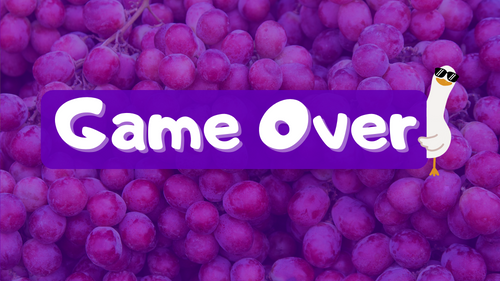
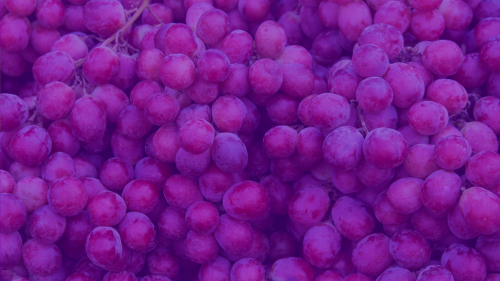
manage css around button and story line placement

Changed region(s): [[0.06, 0.2278, 0.93, 0.6263]]

diff --git a/index.html b/index.html
@@ -45,7 +45,7 @@
     <div class="hidden" id="pg3">
         <section class="top-box" id="text-box-3"></section>
         <section class="bottom-box" id="text-box-3-lower"></section>
-        <section class="text-box" id="text-box-3"></section>
+        <section class="text-box" id="text-box-3-main"></section>
         <img src="assets/Images/lake_background.png" alt="lake" id="pg-3-background">
         <img src="assets/Images/goose_sitting.png" alt="swimming goose" id="pg-3-goose">
         <section class="button-section">
@@ -53,11 +53,12 @@
         </section>
     </div>
     <div class="hidden" id="pg4">
-        <section class="text-box" id="text-box-4"></section>
-        <img src="assets/Images/endscreen.png" alt="game over with grapes background" id="endscreen">
         <section class="button-section">
             <button id="pg-4-opt-1">restart?<span class="arrow">▷</span></button>
         </section>
+        <section class="text-box" id="text-box-4"></section>
+        <img src="assets/Images/game_over_card.png" alt="game over with goose" id="game-over-goose">
+        <img src="assets/Images/endscreen.png" alt="grapes background" id="endscreen">
     </div>
     <div class="hidden" id="pg5">
         <section class="text-box" id="text-box-5"></section>
@@ -68,26 +69,35 @@
         <img src="assets/Images/lemonade_stand_and_hill.png" alt="lemonade stand" id="pg-5-background">
     </div>
     <div class="hidden" id="pg6">
+        <section class="top-box" id="text-box-6-top"></section>
         <section class="text-box" id="text-box-6"></section>
+        <section class="bottom-box" id="text-box-6-lower"></section>
         <section class="button-section">
             <button id="pg-6-opt-1">continue<span class="arrow">▷</span></button>
         </section>
         <img src="assets/Images/goose_face.png" alt="goose face" id="pg-6-goose">
     </div>
     <div class="hidden" id="pg7">
+        <section class="top-box" id="text-box-7-top"></section>
         <section class="text-box" id="text-box-7"></section>
+        <section class="bottom-box" id="text-box-7-lower"></section>
         <section class="button-section">
             <button id="pg-7-opt-1">take lemonade<span class="arrow">▷</span></button>
             <button id="pg-7-opt-2">hmmm... no thanks<span class="arrow">▷</span></button>
         </section>
         <img src="assets/Images/lemonade_stand.png" alt="lemonade stand" id="pg-7-lemonade">
+        <img src="assets/Images/grass_hills.png" alt="grassy hill" id="pg-one-hill">
     </div>
     <div class="hidden" id="pg8">
+        <section class="top-box" id="text-box-8-top"></section>
         <section class="text-box" id="text-box-8"></section>
+        <section class="bottom-box" id="text-box-8-lower"></section>
         <section class="button-section">
             <button id="pg-8-opt-1">continue<span class="arrow">▷</span></button>
         </section>
         <img src="assets/Images/grass_hills.png" alt="grass hill" id="pg-8-hill">
+        <img src="assets/Images/waddle.png" alt="waddle" id="waddle">
+        <img src="assets/Images/goose_butt.png" alt="goose butt" id="goose-butt">
     </div>
 </body>
 </html>

diff --git a/css/style.css b/css/style.css
@@ -40,7 +40,7 @@ button {
 .text-box {
     position: fixed;
     width: 100%;
-    border: 1px solid blue;
+    /* border: 1px solid blue; */
     height: 100px;
     bottom: 100px;
     z-index: 2;
@@ -204,22 +204,14 @@ button {
 }
 
 #pg-three-txt-1 {
-    position: absolute;
-    z-index: 1;
-    background-color: white;
-    padding: 8px 20px;
-    border-radius: 4px;
+    left: 10%;
 }
 
 #pg-three-txt-2 {
-    position: absolute;
-    right: 0;
-    top: 50%;
-    z-index: 2;
+    right: 10%;
     color: white;
     background-color: var(--purple-color);
-    padding: 8px 20px;
-    border-radius: 4px;
+    
 }
 #pg-3-goose {
     width: 30%;
@@ -238,6 +230,14 @@ button {
     position: relative;
     min-width: 100%;
     min-height: 100vh;
+    z-index: 0;
+}
+
+#game-over-goose {
+    left: 50%;
+    transform: translateX(-50%);
+    width: 80%;
+    z-index: 1;
 }
 
 #pg-4-opt-1 {
@@ -274,19 +274,19 @@ button {
 }
 /* pg 6 */
 #pg-6-goose {
-
-}
-#pg-seven-txt-1 {
-    left: 10px;
-}
-
-#pg-seven-txt-2 {
-    left: 50%;
-    transform: translateX(-50%);
+    position: fixed;
+    /* border: 1px solid black; */
+    bottom: 0px;
 }
 
-#pg-seven-txt-3 {
-    right: 10px;
+#pg-six-txt-1 {
+    right: 10%
+}
+
+#pg-six-txt-2 {
+    right: 10%;
+    color: white;
+    background-color: var(--purple-color);
 }
 
 #pg-6-opt-1{
@@ -294,14 +294,26 @@ button {
     transform: translateX(-50%);
 }
 
-#
-
 /* pg 7 */
+#pg-seven-txt-1 {
+    left: 10px;
+}
+
+#pg-seven-txt-2 {
+    left: 60px;
+}
+
+#pg-seven-txt-3 {
+    right: 100px;
+}
+
 #pg-7-lemonade {
+    position: fixed;
     left: 50%;
     transform: translateX(-50%);
-    top: -100px;
-    width: 70%;
+    bottom: 10px;
+    width: 50%;
+    z-index: 1;
 }
 #pg-7-opt-1 {
     left: 20%;
@@ -312,8 +324,29 @@ button {
 }
 /* pg 8 */
 #pg-8-hill{
+    position: fixed;
     width: 100%;
+    bottom: 0;
     z-index: -1;
+}
+
+#goose-butt {
+    position: fixed;
+    height: 100vh;
+    right: 10px;
+    bottom: 10px;
+}
+
+#waddle {
+    width: 40%;
+}
+
+#pg-eight-txt-1 {
+    left: 20px;
+}
+
+#pg-eight-txt-2 {
+    left: 200px;
 }
 
 #pg-8-opt-1 {

diff --git a/js/app.js b/js/app.js
@@ -78,14 +78,14 @@ function addStoryParagraph(storyText, idName, location) {
 addStoryParagraph(story.pageTwo[0], 'pg-two-txt-1', document.getElementById('text-box-2'))
 addStoryParagraph(story.pageTwo[1], 'pg-two-txt-2', document.getElementById('text-box-2-lower'))
 addStoryParagraph(story.pageThree[0], 'pg-three-txt-1', document.getElementById('text-box-3'))
-addStoryParagraph(story.pageThree[1], 'pg-three-txt-2', document.getElementById('text-box-3-lower'))
+addStoryParagraph(story.pageThree[1], 'pg-three-txt-2', document.getElementById('text-box-3-main'))
 addStoryParagraph(story.pageFive[0], 'pg-five-txt-1', document.getElementById('text-box-5'))
-addStoryParagraph(story.pageSix[0], 'pg-six-txt-1', document.getElementById('text-box-6'))
-addStoryParagraph(story.pageSix[1], 'pg-six-txt-2', document.getElementById('text-box-6'))
-addStoryParagraph(story.pageSeven[0], 'pg-seven-txt-1', document.getElementById('text-box-7'))
+addStoryParagraph(story.pageSix[0], 'pg-six-txt-1', document.getElementById('text-box-6-top'))
+addStoryParagraph(story.pageSix[1], 'pg-six-txt-2', document.getElementById('text-box-6-lower'))
+addStoryParagraph(story.pageSeven[0], 'pg-seven-txt-1', document.getElementById('text-box-7-top'))
 addStoryParagraph(story.pageSeven[1], 'pg-seven-txt-2', document.getElementById('text-box-7'))
-addStoryParagraph(story.pageSeven[2], 'pg-seven-txt-3', document.getElementById('text-box-7'))
-addStoryParagraph(story.pageEight[0], 'pg-eight-txt-1', document.getElementById('text-box-8'))
+addStoryParagraph(story.pageSeven[2], 'pg-seven-txt-3', document.getElementById('text-box-7-lower'))
+addStoryParagraph(story.pageEight[0], 'pg-eight-txt-1', document.getElementById('text-box-8-lower'))
 addStoryParagraph(story.pageEight[1], 'pg-eight-txt-2', document.getElementById('text-box-8'))
 
 // add a timed entry function? for some of the story elements?

diff --git a/js/story.js b/js/story.js
@@ -2,7 +2,7 @@ const story = {
     pageTwo: ["Life is good as a silly goose... <br>&nbsp &nbsp &nbsp &nbsp and it's a beautiful day out!", "What do you want to do?",],
     pageThree: [`You got some <strong>bread crumbs</strong>! Hooray!`,`But for some reason, <strong> you can't stop thinking about grapes...</strong>`,],
     pageFive: [`You see a lemonade stand!`,],
-    pageSix:[`Lemonade isn't for you, br/ you silly goose!`,`Too bad he doesn't have any grapes...`,],
+    pageSix:[`Lemonade isn't for you, you silly goose!`,`Too bad he doesn't have any grapes...`,],
     pageSeven: [`The man said "No, we just sell lemonade,"`,`"But it's cold, and it's fresh, and it's all homemade!"`,`"Can I get you a glass?"`,],
     pageEight: [`So you waddle away...`,`... Till the very next day...`]
 }
